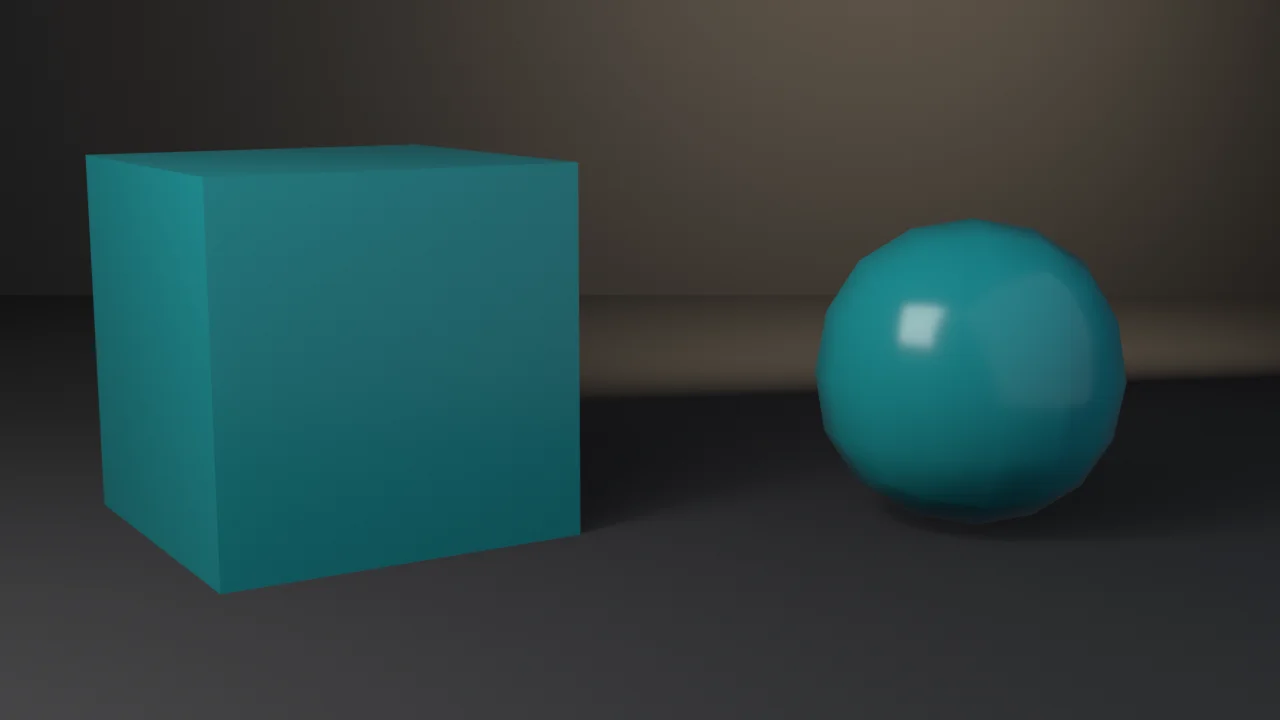
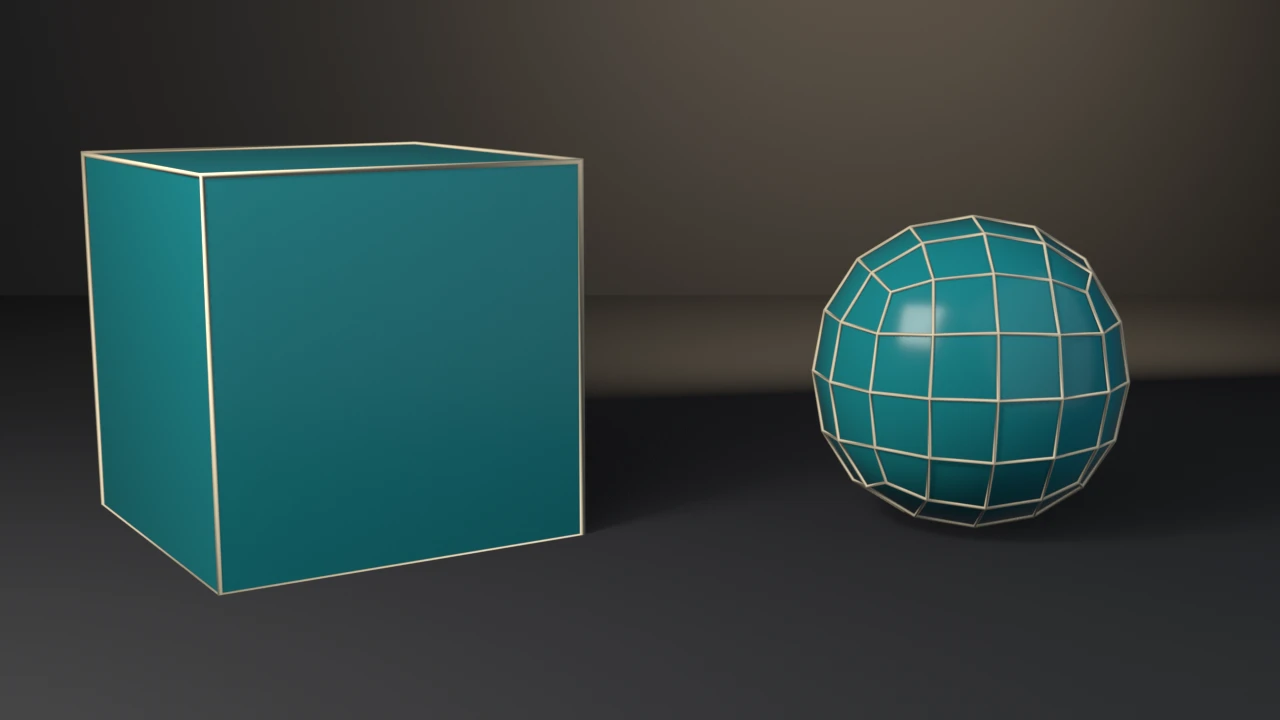
fix(examples): depsgraph-export still shows the base and evaluated edge cages
Render path only. The check, its assertions and exit codes are unchanged.
docs/gallery/index.html also carries the crate-stack card alt from the
previous commit, since both regenerate in one build.

diff --git a/docs/gallery/depsgraph-export/index.html b/docs/gallery/depsgraph-export/index.html
@@ -16,13 +16,13 @@
   <meta property="og:image" content="https://tmhsdigital.github.io/Blender-Developer-Tools/gallery/assets/depsgraph-export-hero.webp" />
   <meta property="og:image:width" content="1280" />
   <meta property="og:image:height" content="720" />
-  <meta property="og:image:alt" content="A teal cube beside a slightly faceted teal sphere on a dark studio floor." />
+  <meta property="og:image:alt" content="A teal cube outlined by its twelve edges beside a faceted teal sphere covered in a dense pale wire grid, on a dark studio floor." />
   <meta property="og:site_name" content="Blender Developer Tools" />
   <meta name="twitter:card" content="summary_large_image" />
   <meta name="twitter:title" content="depsgraph-export — Examples — Blender Developer Tools" />
   <meta name="twitter:description" content="The depsgraph lifetime contract — evaluated_get().to_mesh() paired with to_mesh_clear() — measured against an OBJ export of the same object." />
   <meta name="twitter:image" content="https://tmhsdigital.github.io/Blender-Developer-Tools/gallery/assets/depsgraph-export-hero.webp" />
-  <meta name="twitter:image:alt" content="A teal cube beside a slightly faceted teal sphere on a dark studio floor." />
+  <meta name="twitter:image:alt" content="A teal cube outlined by its twelve edges beside a faceted teal sphere covered in a dense pale wire grid, on a dark studio floor." />
   <style>
     /* fonts are deployed by the landing build (docs/fonts/) */
     @font-face { font-family: 'Barlow Condensed'; font-weight: 600; font-display: swap;
@@ -268,8 +268,8 @@
     <p>The depsgraph lifetime contract — evaluated_get().to_mesh() paired with to_mesh_clear() — measured against an OBJ export of the same object.</p>
   </header>
   <main id="main">
-    <button class="detail-hero" id="heroZoom" type="button" aria-label="View full size: A teal cube beside a slightly faceted teal sphere on a dark studio floor.">
-      <img src="../assets/depsgraph-export-hero.webp" alt="A teal cube beside a slightly faceted teal sphere on a dark studio floor." width="1280" height="720" />
+    <button class="detail-hero" id="heroZoom" type="button" aria-label="View full size: A teal cube outlined by its twelve edges beside a faceted teal sphere covered in a dense pale wire grid, on a dark studio floor.">
+      <img src="../assets/depsgraph-export-hero.webp" alt="A teal cube outlined by its twelve edges beside a faceted teal sphere covered in a dense pale wire grid, on a dark studio floor." width="1280" height="720" />
     </button>
     <p class="zoom-hint">Rendered headless by the example itself — click to zoom.</p>
     <div class="callout"><span class="tag">witnesses</span> Exports ship evaluated geometry: the exported vertex count equals the subsurf-applied count and is strictly greater than the base mesh.</div>
@@ -431,6 +431,28 @@ sys.dont_write_bytecode = <span class="k">True</span>  <span class="c"># keep ex
     <span class="k">for</span> poly <span class="k">in</span> obj.data.polygons:
         poly.use_smooth = <span class="k">True</span>
 
+    <span class="c"># Edge cages over both: the check compares vertex counts, and two teal</span>
+    <span class="c"># silhouettes alone read as &quot;a cube and a ball&quot;. The base cage shows the</span>
+    <span class="c"># 8 verts the datablock holds; the evaluated cage is the same SUBSURF</span>
+    <span class="c"># followed by WIREFRAME, so it draws exactly the edges the OBJ ships.</span>
+    <span class="c"># Render-path scaffolding only: separate objects, added after check().</span>
+    cage_mat = principled(<span class="s">&quot;Cage&quot;</span>, (<span class="n">0.92</span>, <span class="n">0.80</span>, <span class="n">0.56</span>, <span class="n">1.0</span>), <span class="n">0.0</span>, <span class="n">0.35</span>)
+    cages = []
+    <span class="k">for</span> src, subsurf <span class="k">in</span> ((base_obj, <span class="k">False</span>), (obj, <span class="k">True</span>)):
+        cage = bpy.data.objects.new(src.name + <span class="s">&quot;Cage&quot;</span>, obj.data.copy())
+        cage.data.materials.clear()
+        cage.data.materials.append(cage_mat)
+        cage.location = src.location
+        cage.rotation_euler = src.rotation_euler
+        <span class="k">if</span> subsurf:
+            cage.modifiers.new(<span class="s">&quot;ss&quot;</span>, <span class="s">&#x27;SUBSURF&#x27;</span>).levels = <span class="n">2</span>
+        wire = cage.modifiers.new(<span class="s">&quot;cage&quot;</span>, <span class="s">&#x27;WIREFRAME&#x27;</span>)
+        wire.thickness = <span class="n">0.035</span> <span class="k">if</span> <span class="k">not</span> subsurf <span class="k">else</span> <span class="n">0.018</span>
+        wire.offset = <span class="n">1.0</span>  <span class="c"># grow outward so the lines sit on the surface</span>
+        wire.use_even_offset = <span class="k">True</span>
+        bpy.context.collection.objects.link(cage)
+        cages.append(cage)
+
     floor_me = bpy.data.meshes.new(<span class="s">&quot;Floor&quot;</span>)
     bm = bmesh.new()
     <span class="k">try</span>:
@@ -505,7 +527,7 @@ sys.dont_write_bytecode = <span class="k">True</span>  <span class="c"># keep ex
     fcode = gallery_framing.check_framing(
         scene, cam,
         hero=[base_obj, obj],
-        elements=[base_obj, obj],
+        elements=[base_obj, obj] + cages,
         stage=[floor, wall],
     )
     <span class="k">if</span> fcode:
@@ -554,7 +576,7 @@ sys.dont_write_bytecode = <span class="k">True</span>  <span class="c"># keep ex
   </main>
   <dialog class="lightbox" id="lightbox" aria-label="Full-size render">
     <button class="lightbox-close" type="button" autofocus>Close</button>
-    <img src="../assets/depsgraph-export-hero.webp" alt="A teal cube beside a slightly faceted teal sphere on a dark studio floor." />
+    <img src="../assets/depsgraph-export-hero.webp" alt="A teal cube outlined by its twelve edges beside a faceted teal sphere covered in a dense pale wire grid, on a dark studio floor." />
   </dialog>
   <footer>
     <div class="statusbar">

diff --git a/docs/gallery/index.html b/docs/gallery/index.html
@@ -376,7 +376,7 @@
       </article>
       <article class="card" data-tags="depsgraph export">
         <a class="card-media" href="depsgraph-export/" tabindex="-1" aria-hidden="true">
-          <img src="assets/depsgraph-export-hero.webp" alt="A teal cube beside a slightly faceted teal sphere on a dark studio floor." loading="lazy" decoding="async" />
+          <img src="assets/depsgraph-export-hero.webp" alt="A teal cube outlined by its twelve edges beside a faceted teal sphere covered in a dense pale wire grid, on a dark studio floor." loading="lazy" decoding="async" />
         </a>
         <div class="card-body">
           <h2><a href="depsgraph-export/">depsgraph-export</a></h2>
@@ -1190,7 +1190,7 @@
       </article>
       <article class="card" data-tags="mesh export showcase">
         <a class="card-media" href="crate-stack/" tabindex="-1" aria-hidden="true">
-          <img src="assets/crate-stack-hero.webp" alt="Three wooden shipping crates stacked, each turned slightly differently." loading="lazy" decoding="async" />
+          <img src="assets/crate-stack-hero.webp" alt="Three grained wooden shipping crates stacked, each turned slightly differently, with nailed iron corner straps." loading="lazy" decoding="async" />
         </a>
         <div class="card-body">
           <h2><a href="crate-stack/">crate-stack</a></h2>

diff --git a/examples/depsgraph-export/depsgraph_export.py b/examples/depsgraph-export/depsgraph_export.py
@@ -123,6 +123,28 @@ def render_still(obj, path, engine):
     for poly in obj.data.polygons:
         poly.use_smooth = True
 
+    # Edge cages over both: the check compares vertex counts, and two teal
+    # silhouettes alone read as "a cube and a ball". The base cage shows the
+    # 8 verts the datablock holds; the evaluated cage is the same SUBSURF
+    # followed by WIREFRAME, so it draws exactly the edges the OBJ ships.
+    # Render-path scaffolding only: separate objects, added after check().
+    cage_mat = principled("Cage", (0.92, 0.80, 0.56, 1.0), 0.0, 0.35)
+    cages = []
+    for src, subsurf in ((base_obj, False), (obj, True)):
+        cage = bpy.data.objects.new(src.name + "Cage", obj.data.copy())
+        cage.data.materials.clear()
+        cage.data.materials.append(cage_mat)
+        cage.location = src.location
+        cage.rotation_euler = src.rotation_euler
+        if subsurf:
+            cage.modifiers.new("ss", 'SUBSURF').levels = 2
+        wire = cage.modifiers.new("cage", 'WIREFRAME')
+        wire.thickness = 0.035 if not subsurf else 0.018
+        wire.offset = 1.0  # grow outward so the lines sit on the surface
+        wire.use_even_offset = True
+        bpy.context.collection.objects.link(cage)
+        cages.append(cage)
+
     floor_me = bpy.data.meshes.new("Floor")
     bm = bmesh.new()
     try:
@@ -197,7 +219,7 @@ def render_still(obj, path, engine):
     fcode = gallery_framing.check_framing(
         scene, cam,
         hero=[base_obj, obj],
-        elements=[base_obj, obj],
+        elements=[base_obj, obj] + cages,
         stage=[floor, wall],
     )
     if fcode:
